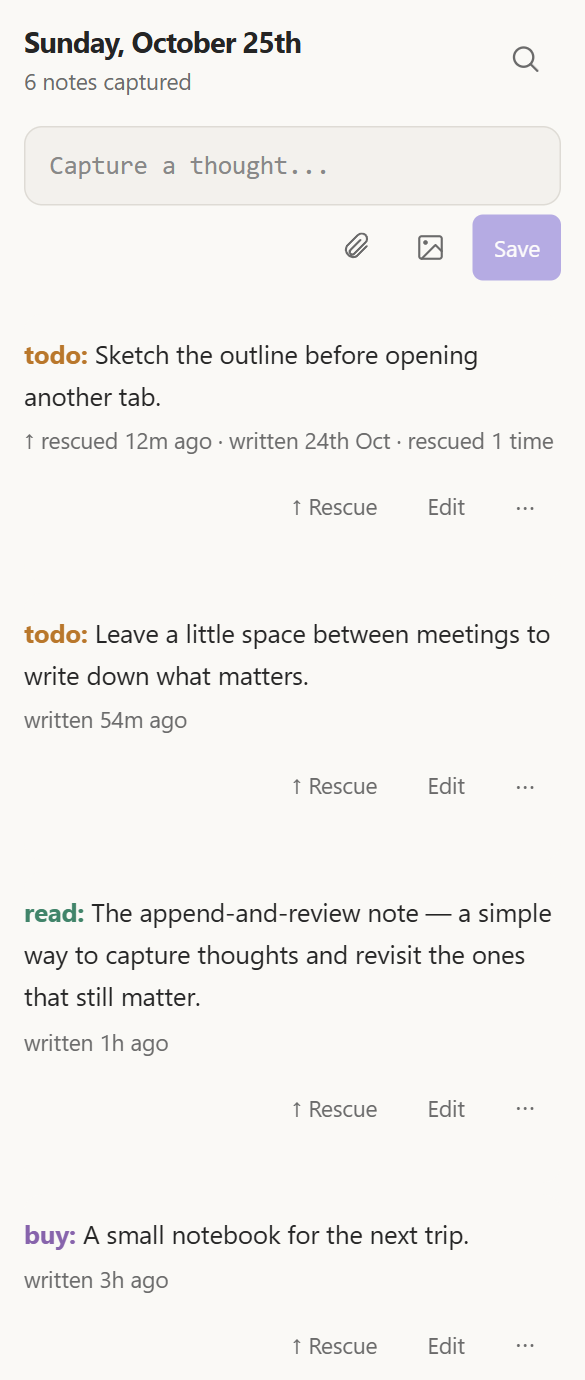
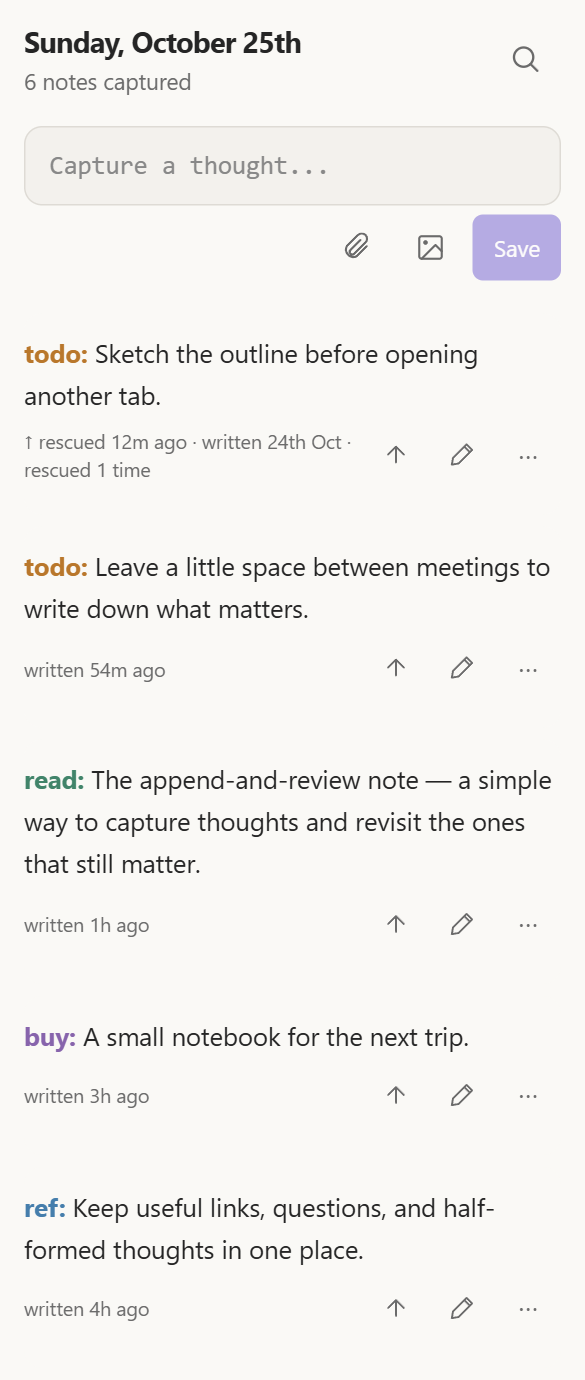
Release 1.1.2 with mobile layout and capture fixes

diff --git a/src/view.ts b/src/view.ts
@@ -83,14 +83,15 @@ export class KarpathyView extends ItemView {
     const root = this.contentEl;
     root.empty();
     root.addClass("karpathy-view");
-    const header = root.createDiv({ cls: "karpathy-header karpathy-column" });
+    this.scroller = root.createDiv({ cls: "karpathy-scroller", attr: { tabindex: "0", "aria-label": "Notes stream" } });
+    const header = this.scroller.createDiv({ cls: "karpathy-header karpathy-column" });
     const titles = header.createDiv({ cls: "karpathy-header-titles" });
     this.heading = titles.createEl("h1");
     this.updateDateHeading();
     this.subtitle = titles.createDiv({ cls: "karpathy-subtitle" });
     const searchToggle = header.createEl("button", { cls: "karpathy-search-toggle", attr: { type: "button", title: "Search notes", "aria-label": "Search notes", "aria-expanded": "false" } });
     setIcon(searchToggle, "search");
-    const capture = root.createDiv({ cls: "karpathy-capture karpathy-column" });
+    const capture = this.scroller.createDiv({ cls: "karpathy-capture karpathy-column" });
     this.captureStatus = capture.createDiv({ cls: "karpathy-capture-status", attr: { role: "status", "aria-live": "polite" } });
     const captureActions = capture.createDiv({ cls: "karpathy-capture-actions" });
     this.attachmentButtons = [];
@@ -135,7 +136,6 @@ export class KarpathyView extends ItemView {
         void this.refresh(false).catch(error => this.plugin.report(error));
       }, 60);
     });
-    this.scroller = root.createDiv({ cls: "karpathy-scroller", attr: { tabindex: "0", "aria-label": "Notes stream" } });
     const stream = this.scroller.createDiv({ cls: "karpathy-column karpathy-stream" });
     this.newer = stream.createEl("button", { text: "Load newer entries", cls: "karpathy-page-button" });
     this.newer.addEventListener("click", () => { void this.loadPage(-1).catch(error => this.plugin.report(error)); });
@@ -392,6 +392,9 @@ export class KarpathyView extends ItemView {
         meta.createDiv({ text: rescueHistory(entry), cls: "karpathy-rescue-meta", attr: { title: `Written: ${displayDate(new Date(entry.created ?? entry.timestamp), { time: true })}${entry.rescues ? `; last rescued: ${displayDate(date, { time: true })}` : ""}` } });
         const actions = meta.createDiv({ cls: "karpathy-entry-actions" });
         const rescue = actions.createEl("button", { text: "↑ Rescue", attr: { "aria-label": "Rescue entry to the top", title: "Rescue to the top" } });
+        rescue.empty();
+        setIcon(rescue.createSpan({ cls: "karpathy-action-icon" }), "arrow-up");
+        rescue.createSpan({ cls: "karpathy-action-label", text: "Rescue" });
         const performRescue = async () => {
           if (rescue.disabled) return;
           rescue.disabled = true;
@@ -447,6 +450,10 @@ export class KarpathyView extends ItemView {
         element.addEventListener("touchcancel", resetSwipe);
         element.addEventListener("keydown", event => { if (event.key === "Escape") resetSwipe(); });
         const edit = actions.createEl("button", { text: "Edit", attr: { "aria-label": "Edit entry" } });
+        edit.empty();
+        edit.title = "Edit entry";
+        setIcon(edit.createSpan({ cls: "karpathy-action-icon" }), "pencil");
+        edit.createSpan({ cls: "karpathy-action-label", text: "Edit" });
         edit.addEventListener("click", () => new EntryEditor(this.plugin, entry).open());
         const source = actions.createEl("button", { text: "⋯", attr: { "aria-label": "More entry actions", title: "More actions" } });
         source.addEventListener("click", event => {

diff --git a/src/editor.ts b/src/editor.ts
@@ -30,6 +30,7 @@ export class CaptureEditor {
   private uploads = new Set<Promise<void>>();
   private destroyed = false;
   private hotkeys: KeymapEventHandler[] = [];
+  private nativeSubmit = false;
 
   constructor(parent: HTMLElement, private options: EditorOptions) {
     const prefix = ViewPlugin.fromClass(class {
@@ -68,11 +69,24 @@ export class CaptureEditor {
           placeholder("Capture a thought..."),
           EditorView.contentAttributes.of({ "aria-label": "Entry Markdown editor", spellcheck: "true", autocapitalize: "sentences" }),
           EditorView.updateListener.of(update => {
-            if (update.docChanged) options.change(update.state.doc.toString());
+            if (update.docChanged) {
+              options.change(update.state.doc.toString());
+              if (this.nativeSubmit) {
+                this.nativeSubmit = false;
+                // Let an uncancellable mobile Return reach CodeMirror before clearing the draft.
+                queueMicrotask(() => {
+                  if (!this.destroyed && /\n[ \t]*\n[ \t]*\n[ \t]*$/.test(this.body)) this.submitOnBlankLine(this.view);
+                });
+              }
+            }
           }),
           EditorView.domEventHandlers({
             beforeinput: (event, view) => {
               if (event.isComposing || !["insertParagraph", "insertLineBreak"].includes(event.inputType)) return false;
+              if (!event.cancelable) {
+                this.nativeSubmit = this.canSubmit(view);
+                return false;
+              }
               if (!this.submitOnBlankLine(view)) return false;
               event.preventDefault();
               return true;
@@ -145,12 +159,17 @@ export class CaptureEditor {
   }
 
   private submitOnBlankLine(view: EditorView): boolean {
+    if (!this.canSubmit(view)) return false;
+    this.options.save();
+    return true;
+  }
+
+  private canSubmit(view: EditorView): boolean {
     if (!this.options.tripleEnter || view.composing || view.state.readOnly) return false;
     const selection = view.state.selection.main;
     if (!selection.empty || selection.head !== view.state.doc.length) return false;
     const text = view.state.doc.toString();
     if (!text.trim() || !/\n[ \t]*\n[ \t]*$/.test(text)) return false;
-    this.options.save();
     return true;
   }
 
@@ -165,7 +184,8 @@ export class CaptureEditor {
   }
   setBody(body: string): void {
     if (this.destroyed) return;
-    this.view.dispatch({ changes: { from: 0, to: this.view.state.doc.length, insert: body } });
+    this.nativeSubmit = false;
+    this.view.dispatch({ changes: { from: 0, to: this.view.state.doc.length, insert: body }, selection: { anchor: 0 } });
   }
   insert(text: string): void {
     if (this.destroyed || this.view.state.readOnly) return;

diff --git a/tests/view.test.ts b/tests/view.test.ts
@@ -341,6 +341,41 @@ test("software-keyboard paragraph input can submit without a keydown event", asy
   await view.onClose();
 });
 
+test("uncancellable mobile Return saves after insertion and leaves the next draft on line one", async () => {
+  const { app, view } = fixture();
+  await view.onOpen();
+  const editor = view["editor"]!;
+  editor.insert("mobile thought\n\n");
+  const event = new Event("beforeinput", { bubbles: true, cancelable: false });
+  Object.defineProperties(event, { inputType: { value: "insertParagraph" }, isComposing: { value: false } });
+  editor.view.contentDOM.dispatchEvent(event);
+  assert.equal(app.vault.getMarkdownFiles().length, 0);
+  // Model the native newline being reconciled into CodeMirror after beforeinput.
+  editor.view.dispatch({ changes: { from: editor.body.length, insert: "\n" }, selection: { anchor: editor.body.length + 1 }, userEvent: "input" });
+  await until(() => editor.body === "");
+  assert.equal(editor.view.state.selection.main.head, 0);
+  assert.equal(editor.view.state.doc.lines, 1);
+  assert.equal(editor.view.hasFocus, true);
+  editor.insert("Next thought");
+  assert.equal(editor.body, "Next thought");
+  assert.equal(app.vault.getMarkdownFiles().length, 1);
+  await view.onClose();
+});
+
+test("header and composer share the stream scroller and footer actions retain accessible names", async () => {
+  const { plugin, view } = fixture();
+  await plugin.store.capture("A note", new Date(), "layout");
+  await view.onOpen();
+  const scroller = view.contentEl.querySelector(".karpathy-scroller")!;
+  assert.equal(view.contentEl.querySelector(".karpathy-header")!.parentElement, scroller);
+  assert.equal(view.contentEl.querySelector(".karpathy-capture")!.parentElement, scroller);
+  const footer = scroller.querySelector(".karpathy-entry-meta")!;
+  assert.ok(footer.querySelector(".karpathy-rescue-meta"));
+  assert.ok(footer.querySelector('[aria-label="Rescue entry to the top"] .karpathy-action-icon'));
+  assert.ok(footer.querySelector('[aria-label="Edit entry"] .karpathy-action-icon'));
+  await view.onClose();
+});
+
 test("clipboard files and picker attachments insert at the original cursor and block premature saves", async () => {
   const parent = document.body.createDiv();
   let release!: (links: string[]) => void;

diff --git a/styles.css b/styles.css
@@ -172,10 +172,9 @@
 .karpathy-entry-actions button { min-height: 48px; min-width: 48px; padding: 10px 12px; font-size: var(--karpathy-ui-font-size); }
 .karpathy-entry-actions button:first-child { min-width: 92px; }
 .karpathy-rescue-meta { line-height: 1.6; }
-@media (pointer: coarse) {
-  .karpathy-entry-actions button:first-child { flex: 1; background: var(--background-secondary); }
-  .karpathy-entry-actions button:nth-child(2) { flex: 1; }
-}
+.karpathy-entry-actions button { display: inline-flex; align-items: center; justify-content: center; gap: 6px; }
+.karpathy-action-icon { display: inline-flex; }
+.karpathy-action-icon svg { width: 18px; height: 18px; }
 .karpathy-entry-content { line-height: 1.65; font-size: var(--karpathy-note-font-size); user-select: text; }
 .karpathy-entry-content > :first-child { margin-top: 0; }
 .karpathy-entry-content > :last-child { margin-bottom: 0; }
@@ -200,7 +199,12 @@
   .karpathy-header h1 { font-size: 1.3em; }
   .karpathy-editor .cm-scroller { max-height: 23vh; }
   .karpathy-entry-surface { padding-block: 12px 18px; }
-  .karpathy-entry-actions button:first-child, .karpathy-entry-actions button:nth-child(2) { flex: 1; }
+  .karpathy-entry-meta { flex-wrap: nowrap; gap: 4px; margin-bottom: 0; }
+  .karpathy-rescue-meta { flex: 1 1 0; font-size: 13px; line-height: 1.5; }
+  .karpathy-entry-actions { gap: 0; }
+  .karpathy-entry-actions button,
+  .karpathy-entry-actions button:first-child { min-width: 44px; width: 44px; min-height: 44px; padding: 10px; background: transparent; }
+  .karpathy-action-label { display: none; }
   .karpathy-formatting button { min-height: 36px; }
   .karpathy-entry-content img { max-height: 320px; }
 }
